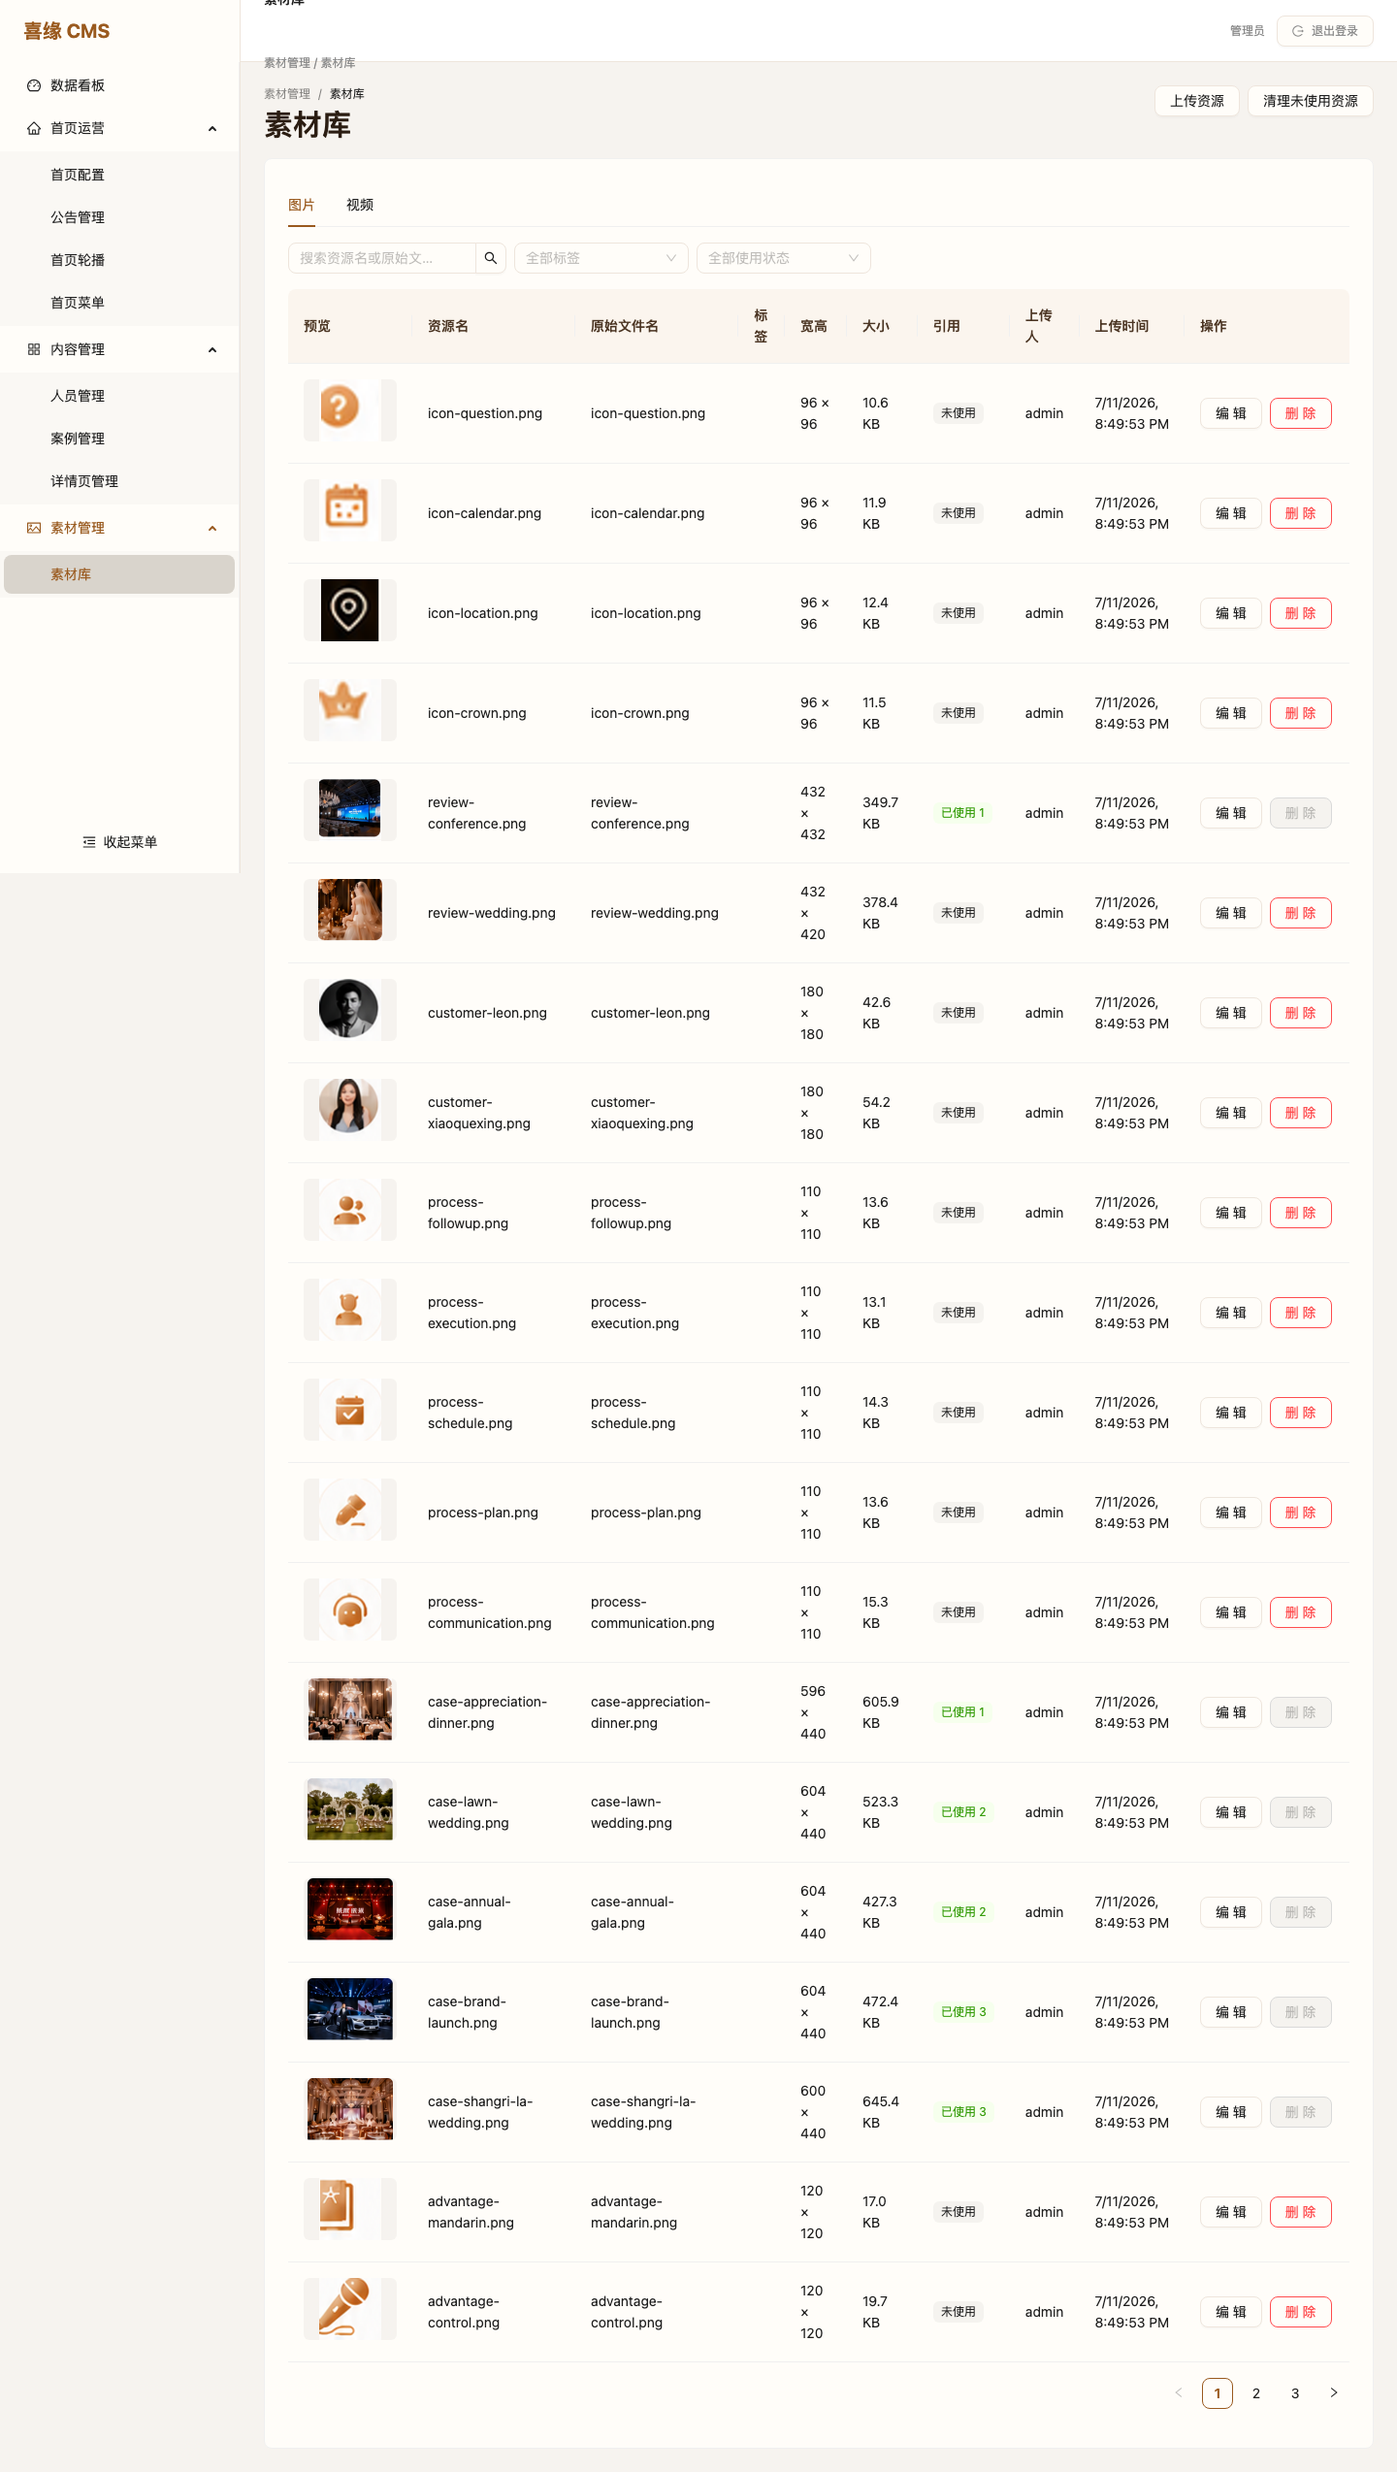
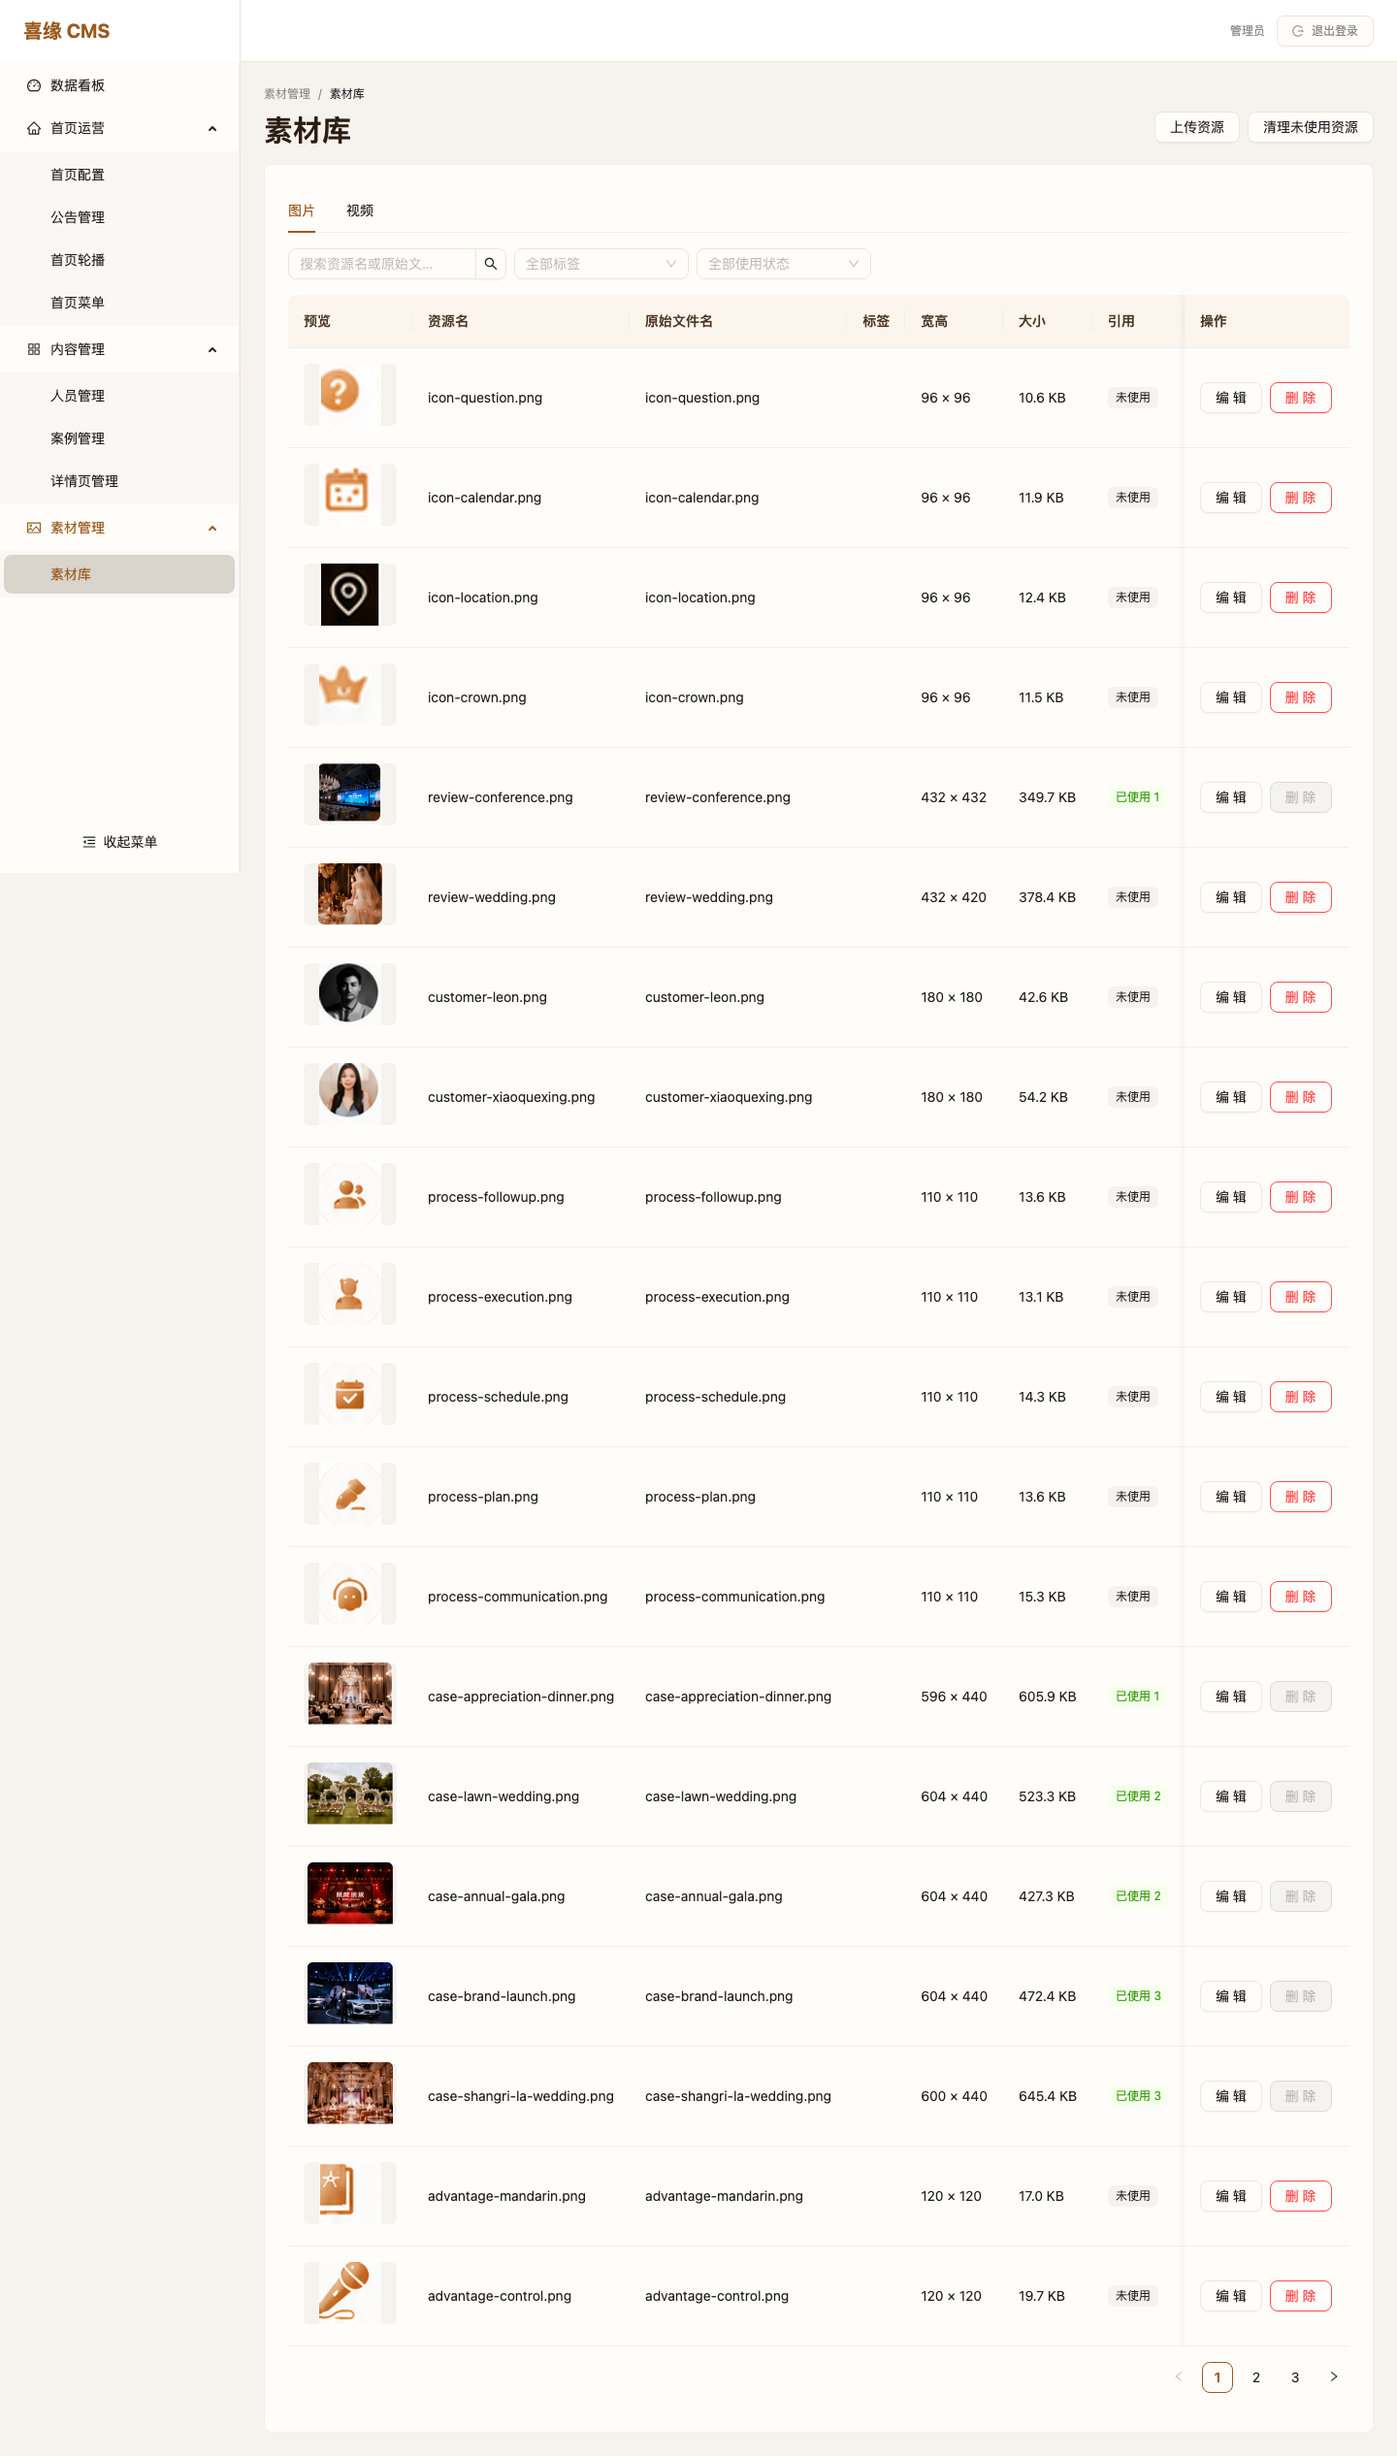
fix(admin): contain table horizontal overflow

diff --git a/tests/e2e/admin.spec.ts b/tests/e2e/admin.spec.ts
@@ -1,5 +1,5 @@
 import { randomBytes } from "node:crypto";
-import { expect, test, type Locator } from "@playwright/test";
+import { expect, test, type Locator, type Page } from "@playwright/test";
 import sharp from "sharp";
 import { adminApi, apiBase, chooseDetailMediaFromLibrary, chooseMediaFromLibrary, fillControl, fillNumber, loginAdminUi, selectOption, visibleSelectOption, waitForToast } from "./helpers";
 
@@ -109,6 +109,74 @@ async function selectDetailPageReference(page: Parameters<typeof selectOption>[0
   const option = visibleSelectOption(page, name);
   await expect(option).toBeVisible();
   await option.click();
+}
+
+async function locatorBox(locator: Locator) {
+  const box = await locator.boundingBox();
+  expect(box).not.toBeNull();
+  if (!box) throw new Error("布局目标不可见");
+  return box;
+}
+
+async function expectNoDocumentHorizontalScroll(page: Page) {
+  const geometry = await page.evaluate(() => ({
+    clientWidth: document.documentElement.clientWidth,
+    scrollWidth: document.documentElement.scrollWidth,
+    scrollX: window.scrollX
+  }));
+  expect(geometry.scrollX).toBe(0);
+  expect(geometry.scrollWidth).toBeLessThanOrEqual(geometry.clientWidth + 1);
+}
+
+async function expectTableHorizontalScrollIsScoped(
+  page: Page,
+  input: { path: string; title: string; tableTestId: string; actionTestId: string }
+) {
+  await page.goto(input.path);
+  await expect(page.getByTestId(input.tableTestId)).toBeVisible();
+  await expect(page.locator(".admin-header")).not.toContainText(input.title);
+  await expect(page.getByRole("heading", { level: 2, name: input.title })).toHaveCount(1);
+  await expectNoDocumentHorizontalScroll(page);
+
+  const sider = page.locator(".admin-layout .ant-layout-sider");
+  const header = page.locator(".admin-header");
+  const pageHeader = page.locator(".page-header");
+  const action = page.getByTestId(input.actionTestId);
+  const tableScroll = page.getByTestId(input.tableTestId).locator(".ant-table-content").first();
+
+  const scrollGeometry = await tableScroll.evaluate((element) => ({
+    clientWidth: element.clientWidth,
+    scrollWidth: element.scrollWidth,
+    scrollLeft: element.scrollLeft
+  }));
+  expect(scrollGeometry.scrollWidth).toBeGreaterThan(scrollGeometry.clientWidth);
+
+  const before = {
+    sider: await locatorBox(sider),
+    header: await locatorBox(header),
+    pageHeader: await locatorBox(pageHeader),
+    action: await locatorBox(action)
+  };
+
+  await tableScroll.evaluate((element) => {
+    element.scrollLeft = element.scrollWidth;
+    element.dispatchEvent(new Event("scroll", { bubbles: true }));
+  });
+
+  const afterScrollLeft = await tableScroll.evaluate((element) => element.scrollLeft);
+  expect(afterScrollLeft).toBeGreaterThan(0);
+  await expectNoDocumentHorizontalScroll(page);
+
+  const after = {
+    sider: await locatorBox(sider),
+    header: await locatorBox(header),
+    pageHeader: await locatorBox(pageHeader),
+    action: await locatorBox(action)
+  };
+
+  for (const key of Object.keys(before) as Array<keyof typeof before>) {
+    expect(Math.abs(after[key].x - before[key].x)).toBeLessThanOrEqual(1);
+  }
 }
 
 test("登录页展示", async ({ page }) => {
@@ -483,7 +551,26 @@ test("资源库上传、MD5复用、筛选和清理未使用资源", async ({ pa
   await expect(page.getByText(/已删除 1 项/).last()).toBeVisible();
 });
 
-test("后台分层导航和表单布局视觉截图", async ({ page }) => {
+test("后台布局横向滚动只作用于右侧表格内容", async ({ page }) => {
+  await page.setViewportSize({ width: 1024, height: 768 });
+  await loginAdminUi(page);
+  await page.evaluate(() => localStorage.setItem("event-arts-admin-sider-collapsed", "false"));
+
+  for (const target of [
+    { path: "/artists", title: "人员管理", tableTestId: "artists-table", actionTestId: "artists-create" },
+    { path: "/media-assets", title: "素材库", tableTestId: "media-table", actionTestId: "media-upload-button" },
+    { path: "/detail-pages", title: "详情页管理", tableTestId: "detail-page-table", actionTestId: "detail-page-create" }
+  ]) {
+    await expectTableHorizontalScrollIsScoped(page, target);
+  }
+
+  await page.setViewportSize({ width: 1440, height: 900 });
+  await page.goto("/artists");
+  await expect(page.getByTestId("artists-table")).toBeVisible();
+  await expectNoDocumentHorizontalScroll(page);
+});
+
+test("后台分层导航和表单视觉截图", async ({ page }) => {
   await page.setViewportSize({ width: 1440, height: 900 });
   await loginAdminUi(page);
   await page.screenshot({ path: "docs/design/admin-navigation-expanded.png", fullPage: true });

diff --git a/apps/admin/src/components/PageHeader.test.tsx b/apps/admin/src/components/PageHeader.test.tsx
@@ -1,0 +1,43 @@
+// @vitest-environment jsdom
+
+import { cleanup, render, screen } from "@testing-library/react";
+import { afterEach, describe, expect, it } from "vitest";
+import { PageHeader } from "./PageHeader";
+
+afterEach(cleanup);
+
+describe("PageHeader", () => {
+  it("renders breadcrumbs above a stable title and action row", () => {
+    const { container } = render(
+      <PageHeader
+        title="案例管理"
+        breadcrumbs={["内容管理", "案例管理"]}
+        description="管理前台展示的案例"
+        extra={<button type="button">新增</button>}
+      />
+    );
+
+    const header = container.querySelector(".page-header");
+    const breadcrumb = container.querySelector(".page-header__breadcrumb");
+    const body = container.querySelector(".page-header__body");
+    const copy = container.querySelector(".page-header__copy");
+    const extra = container.querySelector(".page-header__extra");
+
+    expect(header).toBeTruthy();
+    expect(breadcrumb?.textContent).toContain("内容管理");
+    expect(body?.contains(copy)).toBe(true);
+    expect(body?.contains(extra)).toBe(true);
+    expect(screen.getByRole("heading", { level: 2, name: "案例管理" })).toBeTruthy();
+    expect(screen.getByText("管理前台展示的案例")).toBeTruthy();
+    expect(screen.getByRole("button", { name: "新增" })).toBeTruthy();
+  });
+
+  it("does not render empty optional regions", () => {
+    const { container } = render(<PageHeader title="数据看板" />);
+
+    expect(container.querySelectorAll("h2")).toHaveLength(1);
+    expect(container.querySelector(".page-header__breadcrumb")).toBeNull();
+    expect(container.querySelector(".page-header__description")).toBeNull();
+    expect(container.querySelector(".page-header__extra")).toBeNull();
+  });
+});

diff --git a/apps/admin/src/styles.css b/apps/admin/src/styles.css
@@ -28,8 +28,11 @@ body {
 .admin-layout .ant-layout-sider {
   position: sticky;
   top: 0;
+  z-index: 20;
+  align-self: flex-start;
   height: 100dvh;
   border-right: 1px solid #eee5dc;
+  background: #fff;
 }
 
 .admin-layout .ant-layout-sider-children {
@@ -67,6 +70,10 @@ body {
   width: calc(100% - 24px);
 }
 
+.admin-main {
+  min-width: 0;
+}
+
 .admin-header {
   position: sticky;
   top: 0;
@@ -76,13 +83,8 @@ body {
   background: #fff;
   display: flex;
   align-items: center;
-  justify-content: space-between;
+  justify-content: flex-end;
   border-bottom: 1px solid #eee5dc;
-}
-
-.admin-header > div:first-child {
-  display: grid;
-  gap: 2px;
 }
 
 .admin-header span {
@@ -97,27 +99,40 @@ body {
 }
 
 .admin-content {
+  min-width: 0;
   padding: 24px;
 }
 
 .page-stack {
   display: grid;
+  min-width: 0;
   gap: 16px;
 }
 
 .page-header {
+  display: grid;
+  min-width: 0;
+  gap: 8px;
+}
+
+.page-header h2.ant-typography {
+  margin: 0;
+}
+
+.page-header__breadcrumb {
+  font-size: 12px;
+}
+
+.page-header__body {
   display: flex;
+  min-width: 0;
   gap: 16px;
   align-items: flex-start;
   justify-content: space-between;
 }
 
-.page-header h2.ant-typography {
-  margin: 2px 0 0;
-}
-
-.page-header__breadcrumb {
-  font-size: 12px;
+.page-header__copy {
+  min-width: 0;
 }
 
 .page-header__description {
@@ -127,7 +142,13 @@ body {
 
 .page-header__extra {
   display: flex;
+  flex-shrink: 0;
   justify-content: flex-end;
+}
+
+.list-card,
+.list-card .ant-card-body {
+  min-width: 0;
 }
 
 .list-toolbar,
@@ -350,7 +371,7 @@ video.media-thumb {
     padding: 16px;
   }
 
-  .page-header,
+  .page-header__body,
   .form-action-bar {
     align-items: stretch;
     flex-direction: column;

diff --git a/apps/admin/src/layout/AdminLayout.css.test.ts b/apps/admin/src/layout/AdminLayout.css.test.ts
@@ -1,0 +1,29 @@
+import { readFileSync } from "node:fs";
+import { resolve } from "node:path";
+import { describe, expect, it } from "vitest";
+
+const css = readFileSync(resolve(import.meta.dirname, "../styles.css"), "utf8");
+
+function rule(selector: string) {
+  const match = css.match(new RegExp(`${selector.replace(/[.*+?^${}()|[\]\\]/g, "\\$&")}\\s*\\{(?<body>[^}]*)\\}`));
+  return match?.groups?.body ?? "";
+}
+
+describe("AdminLayout CSS contract", () => {
+  it("keeps the sidebar sticky inside the main layout", () => {
+    const sider = rule(".admin-layout .ant-layout-sider");
+
+    expect(sider).toMatch(/position:\s*sticky/);
+    expect(sider).toMatch(/top:\s*0/);
+    expect(sider).toMatch(/height:\s*100dvh/);
+  });
+
+  it("bounds wide table overflow to the right-side content column", () => {
+    expect(rule(".admin-main")).toMatch(/min-width:\s*0/);
+    expect(rule(".admin-content")).toMatch(/min-width:\s*0/);
+    expect(rule(".page-stack")).toMatch(/min-width:\s*0/);
+    expect(css).toMatch(/\.list-card,\s*\.list-card \.ant-card-body\s*\{[^}]*min-width:\s*0/s);
+    expect(css).not.toMatch(/\.admin-layout\s*\{[^}]*overflow-x:\s*auto/s);
+    expect(css).not.toMatch(/\.admin-content\s*\{[^}]*overflow-x:\s*auto/s);
+  });
+});

diff --git a/apps/admin/src/components/PageHeader.tsx b/apps/admin/src/components/PageHeader.tsx
@@ -11,12 +11,14 @@ type PageHeaderProps = {
 export function PageHeader({ title, breadcrumbs = [], extra, description }: PageHeaderProps) {
   return (
     <header className="page-header">
-      <div>
-        {breadcrumbs.length > 0 && <Breadcrumb className="page-header__breadcrumb" items={breadcrumbs.map((title) => ({ title }))} />}
-        <Typography.Title level={2}>{title}</Typography.Title>
-        {description && <div className="page-header__description">{description}</div>}
+      {breadcrumbs.length > 0 && <Breadcrumb className="page-header__breadcrumb" items={breadcrumbs.map((title) => ({ title }))} />}
+      <div className="page-header__body">
+        <div className="page-header__copy">
+          <Typography.Title level={2}>{title}</Typography.Title>
+          {description && <div className="page-header__description">{description}</div>}
+        </div>
+        {extra && <div className="page-header__extra">{extra}</div>}
       </div>
-      {extra && <div className="page-header__extra">{extra}</div>}
     </header>
   );
 }

diff --git a/apps/admin/src/media/MediaPage.tsx b/apps/admin/src/media/MediaPage.tsx
@@ -178,7 +178,7 @@ export function MediaPage() {
         </Space>
         }
       />
-      <Card>
+      <Card className="list-card">
       <Tabs
         activeKey={mediaType}
         onChange={(key) => setMediaType(key as MediaType)}
@@ -211,6 +211,7 @@ export function MediaPage() {
         loading={loading}
         dataSource={data.items}
         columns={columns}
+        scroll={{ x: "max-content" }}
         pagination={{ current: data.page, pageSize: data.pageSize, total: data.total, showSizeChanger: false, onChange: (page) => void load(page) }}
         locale={{ emptyText: <Empty description="暂无资源" /> }}
       />
@@ -239,6 +240,7 @@ export function MediaPage() {
           dataSource={unused ?? []}
           rowSelection={{ selectedRowKeys: selectedUnused, onChange: (keys) => setSelectedUnused(keys.map(Number)) }}
           columns={columns.slice(0, 6)}
+          scroll={{ x: "max-content" }}
           pagination={false}
           locale={{ emptyText: <Empty description="没有未使用资源" /> }}
         />

diff --git a/apps/admin/src/detail-pages/DetailPageList.tsx b/apps/admin/src/detail-pages/DetailPageList.tsx
@@ -96,7 +96,7 @@ export function DetailPageList() {
         breadcrumbs={["内容管理", "详情页管理"]}
         extra={<Button data-testid="detail-page-create" type="primary" onClick={() => navigate("/detail-pages/new")}>新建详情页</Button>}
       />
-      <Card>
+      <Card className="list-card">
       <Space className="detail-page-list-filters" wrap>
         <Input.Search
           data-testid="detail-page-search"
@@ -127,6 +127,7 @@ export function DetailPageList() {
         loading={loading}
         columns={columns}
         dataSource={items}
+        scroll={{ x: "max-content" }}
         pagination={{
           current: page,
           pageSize,

diff --git a/apps/admin/src/layout/AdminLayout.tsx b/apps/admin/src/layout/AdminLayout.tsx
@@ -103,12 +103,8 @@ export function AdminLayout() {
           {collapsed ? "" : "收起菜单"}
         </Button>
       </Layout.Sider>
-      <Layout>
+      <Layout className="admin-main">
         <Layout.Header className="admin-header">
-          <div>
-            <strong>{routeMatch.title}</strong>
-            <span>{routeMatch.breadcrumbs.join(" / ")}</span>
-          </div>
           <div className="admin-header__account">
             <span>管理员</span>
             <Button data-testid="logout-button" icon={<LogoutOutlined />} onClick={logout}>

diff --git a/apps/admin/src/crud/CrudPage.tsx b/apps/admin/src/crud/CrudPage.tsx
@@ -216,7 +216,7 @@ export function CrudPage({ config }: { config: CrudConfig }) {
         breadcrumbs={[breadcrumbGroup, config.title]}
         extra={<Button data-testid={`${config.testid}-create`} type="primary" onClick={openCreate}>新增</Button>}
       />
-      <Card>
+      <Card className="list-card">
         <Space className="list-toolbar" wrap>
           <Input.Search
             data-testid={`${config.testid}-search`}
